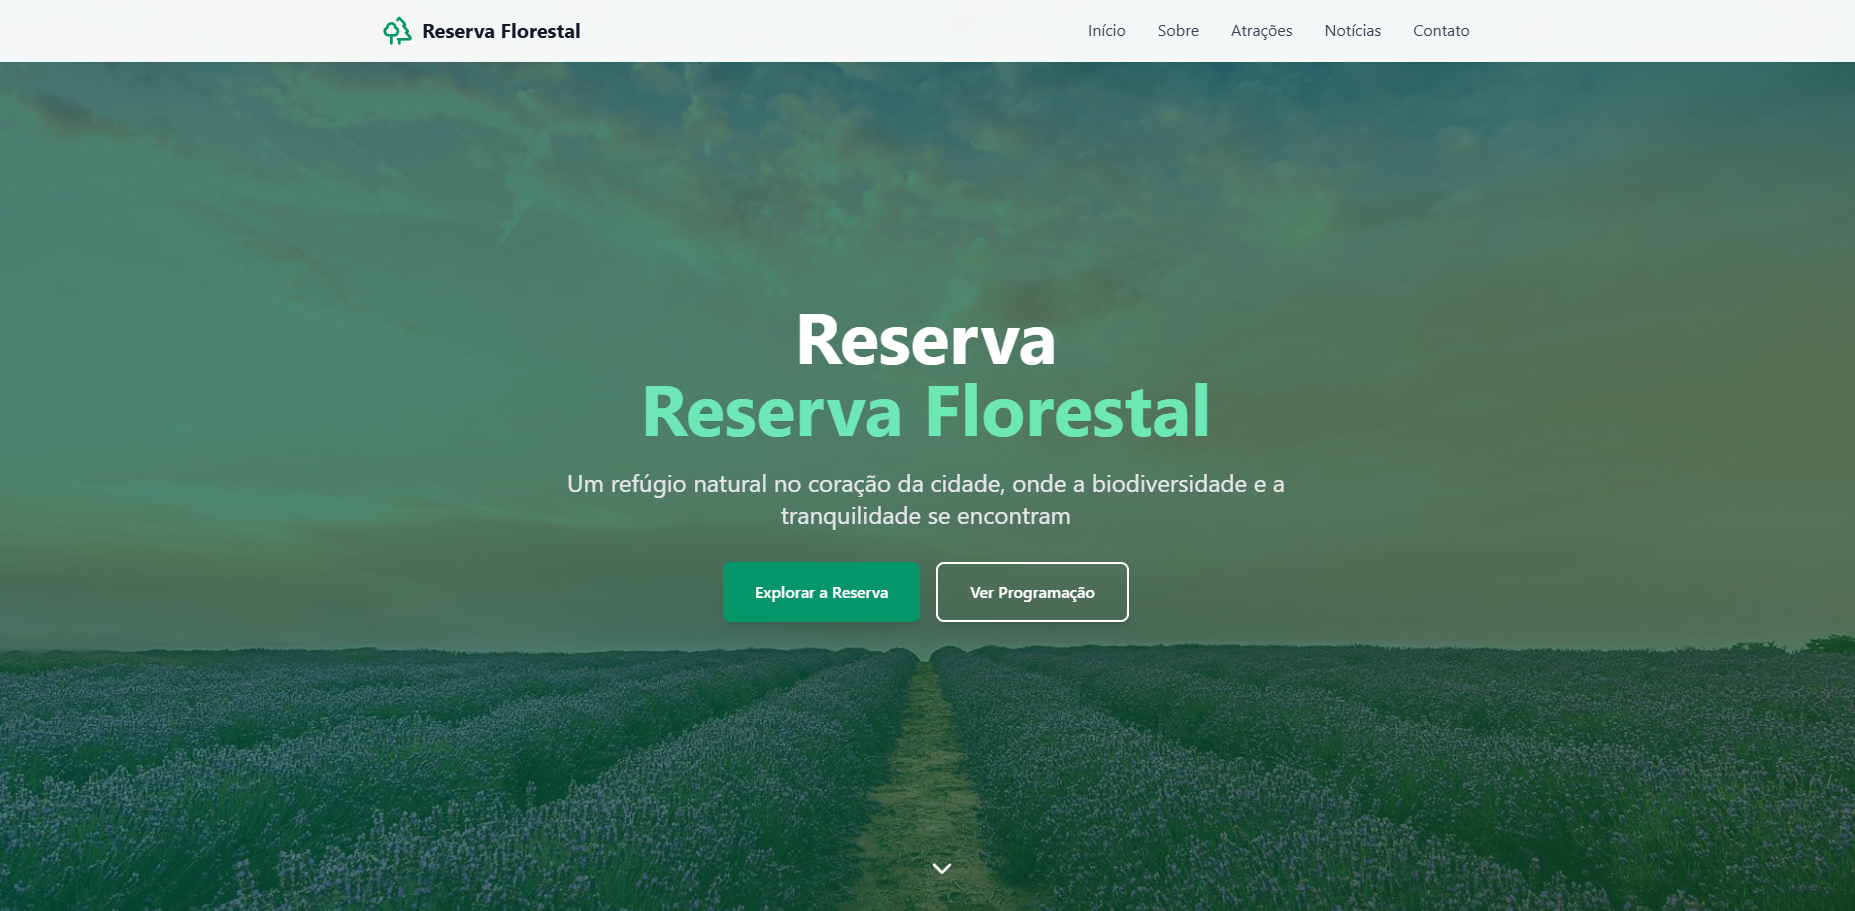
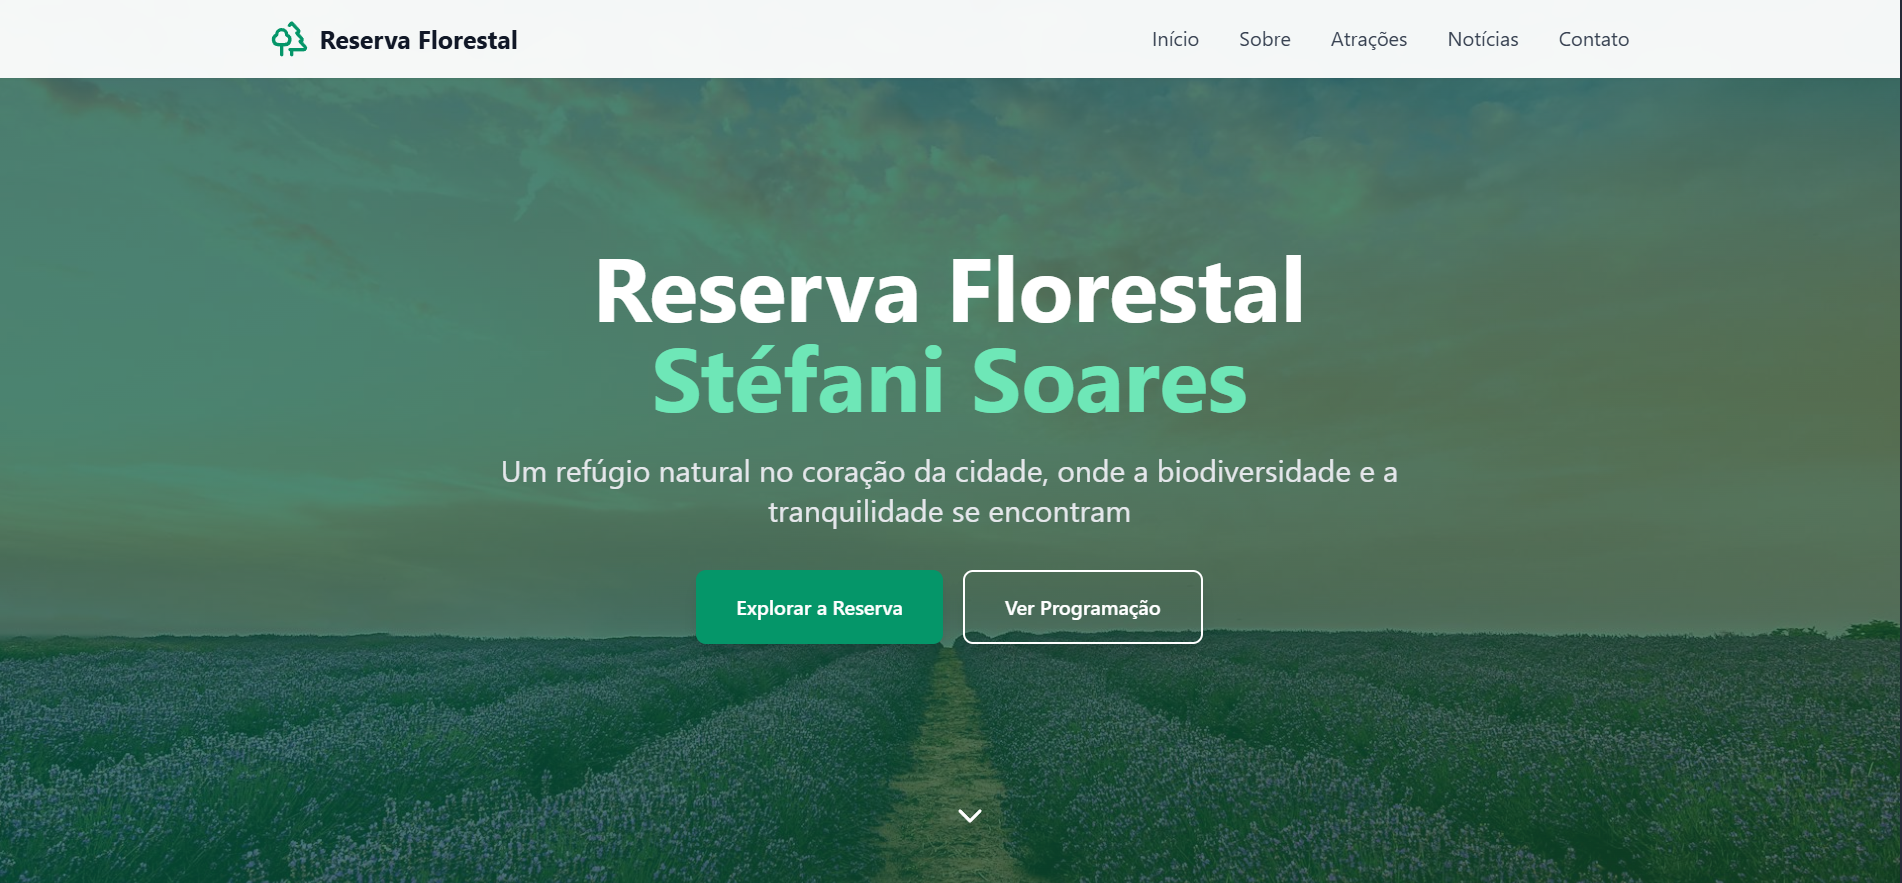
feat(projects) adiciona projeto

diff --git a/src/App.tsx b/src/App.tsx
@@ -71,10 +71,10 @@ function App() {
       link: "https://game-ship.vercel.app"
     },
     {
-      title: "Sistema de Gerenciamento de Senhas",
-      description: "A descrever",
-      tech: ["React", "TypeScript", "Firebase", "Tailwind CSS"],
-      image: "https://images.pexels.com/photos/196644/pexels-photo-196644.jpeg?auto=compress&cs=tinysrgb&w=800",
+      title: "Reserva Florestal",
+      description: "Site institucional desenvolvido com React + TypeScript, usando Vite e Tailwind CSS. Apresenta informações sobre eventos, horários, atrações e notícias da reserva, com um formulário de contato integrado e layout responsivo.",
+      tech: ["React", "TypeScript", "Vite", "Tailwind CSS"],
+      image: "/img/reserva_florestal.png",
       link: "https://seusite.com/meteor-blaster"
     },
     {
